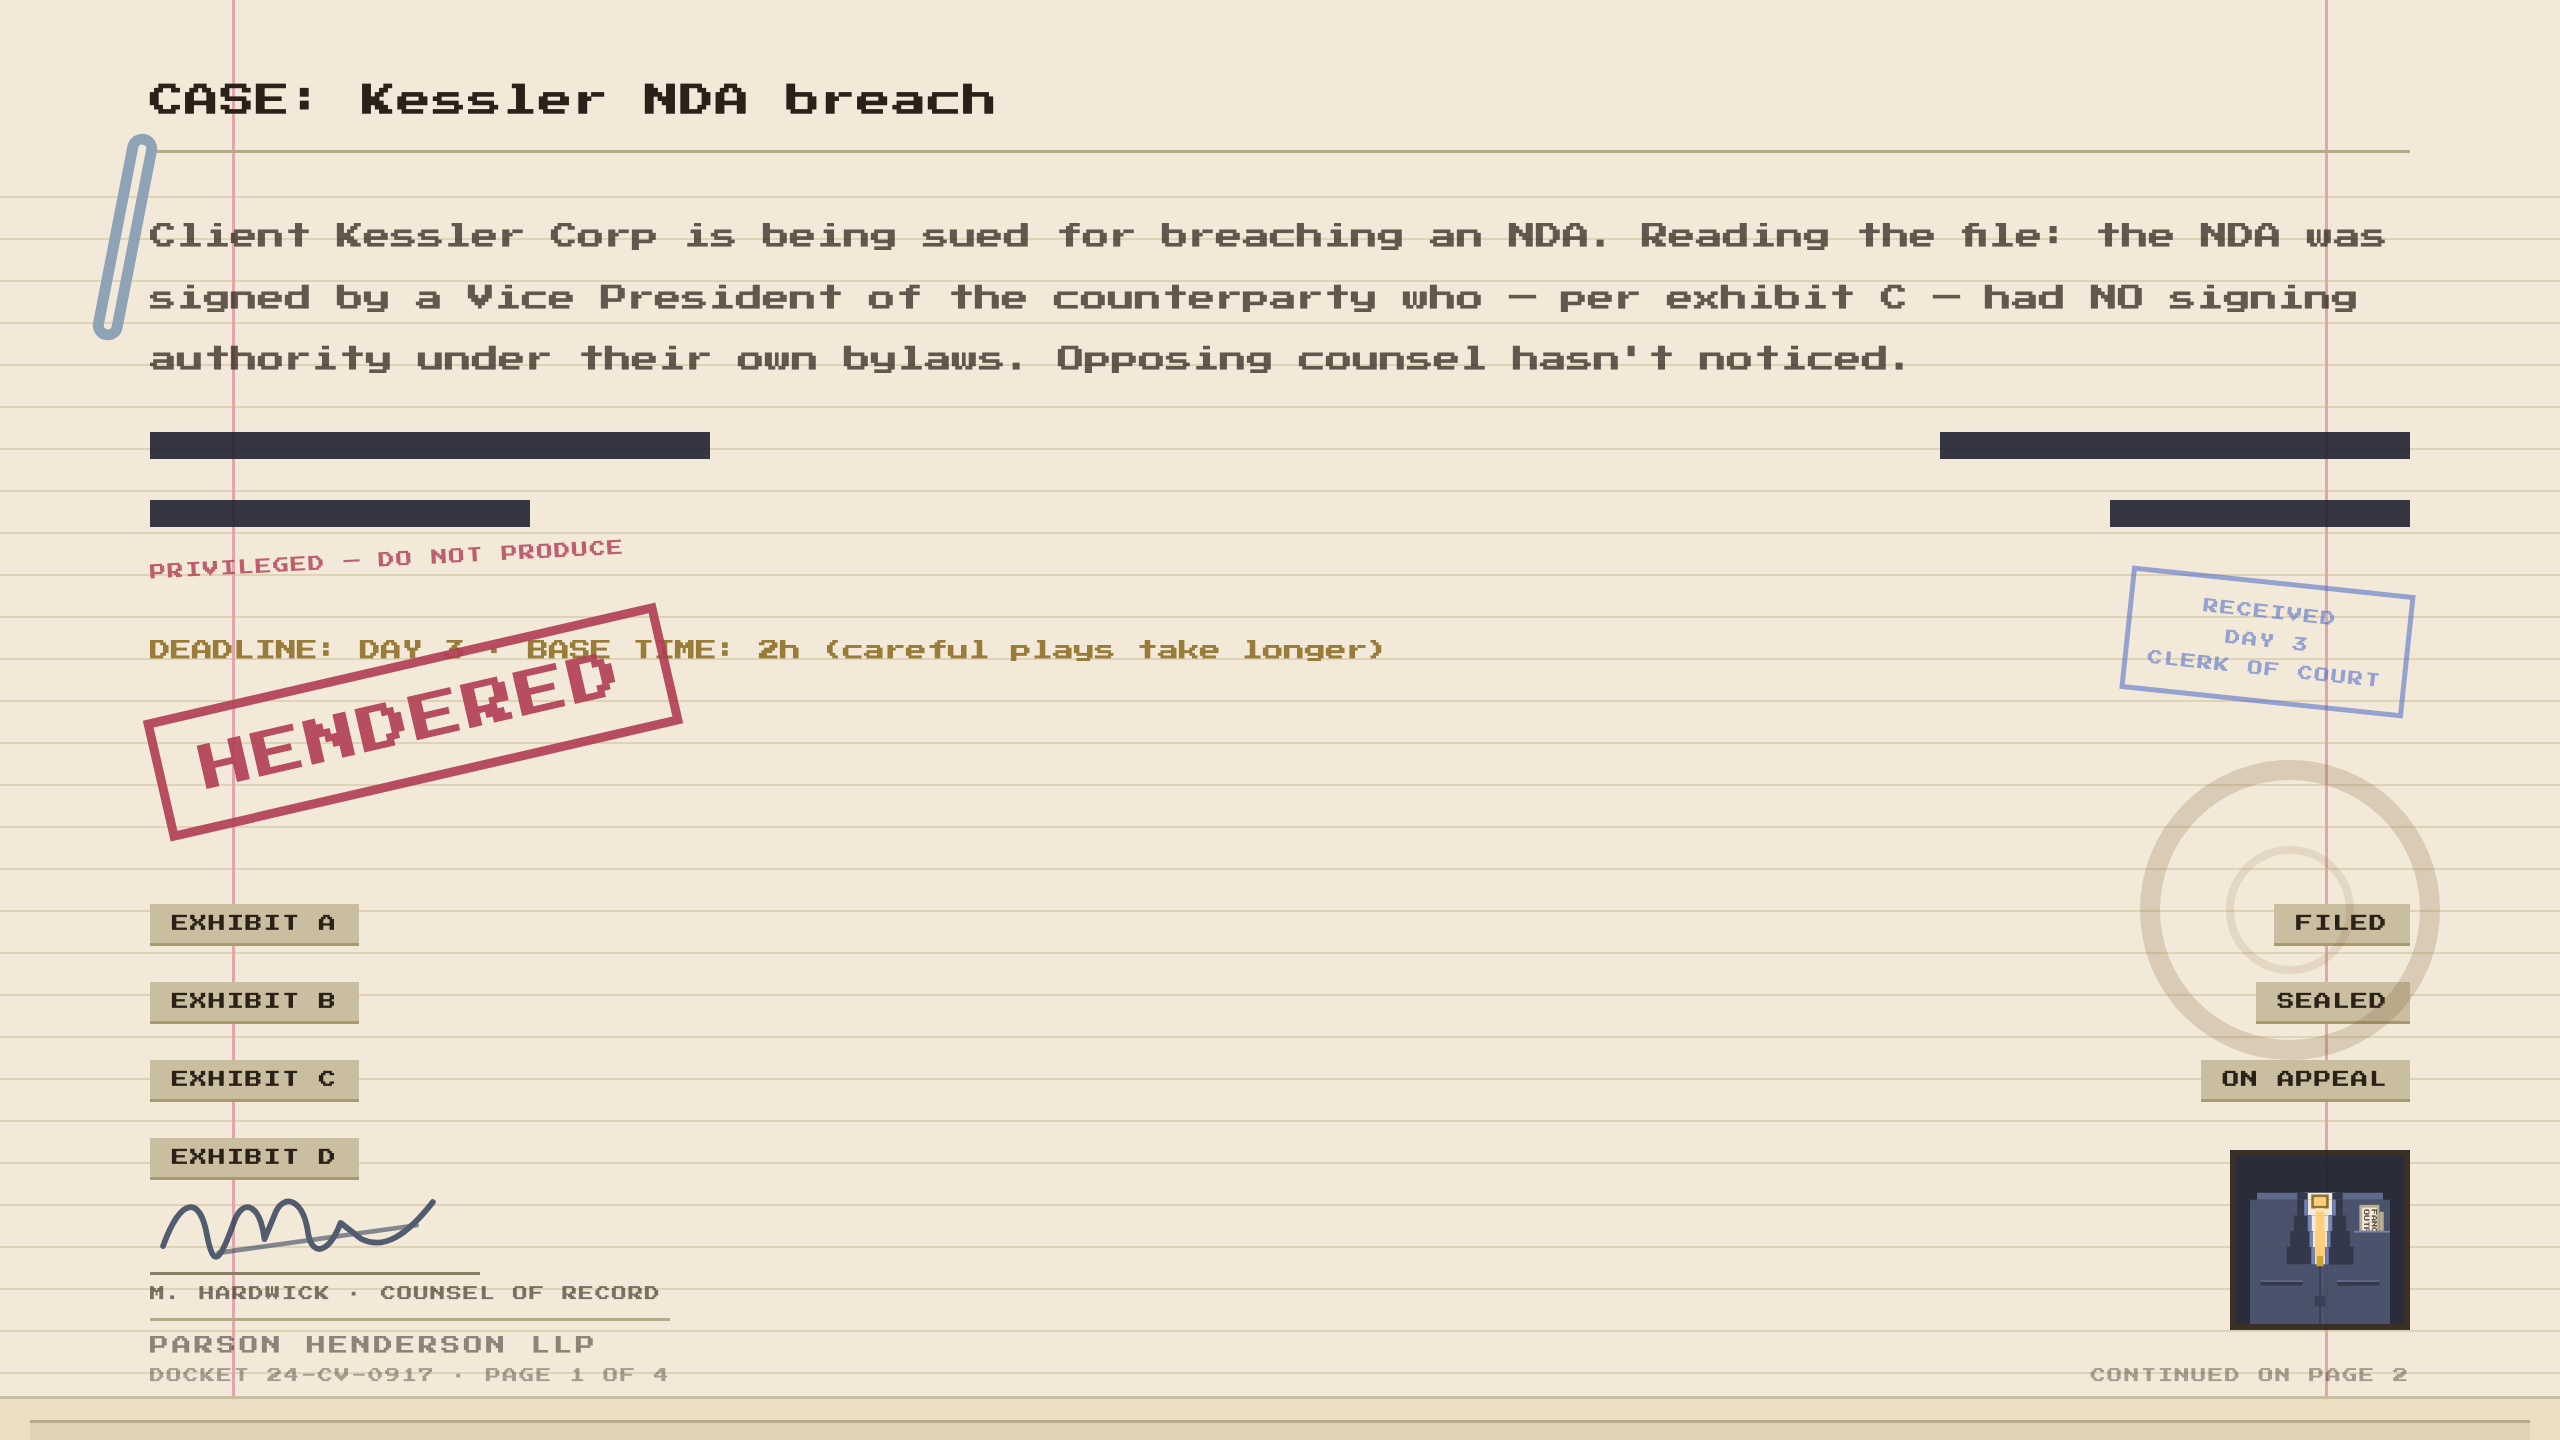
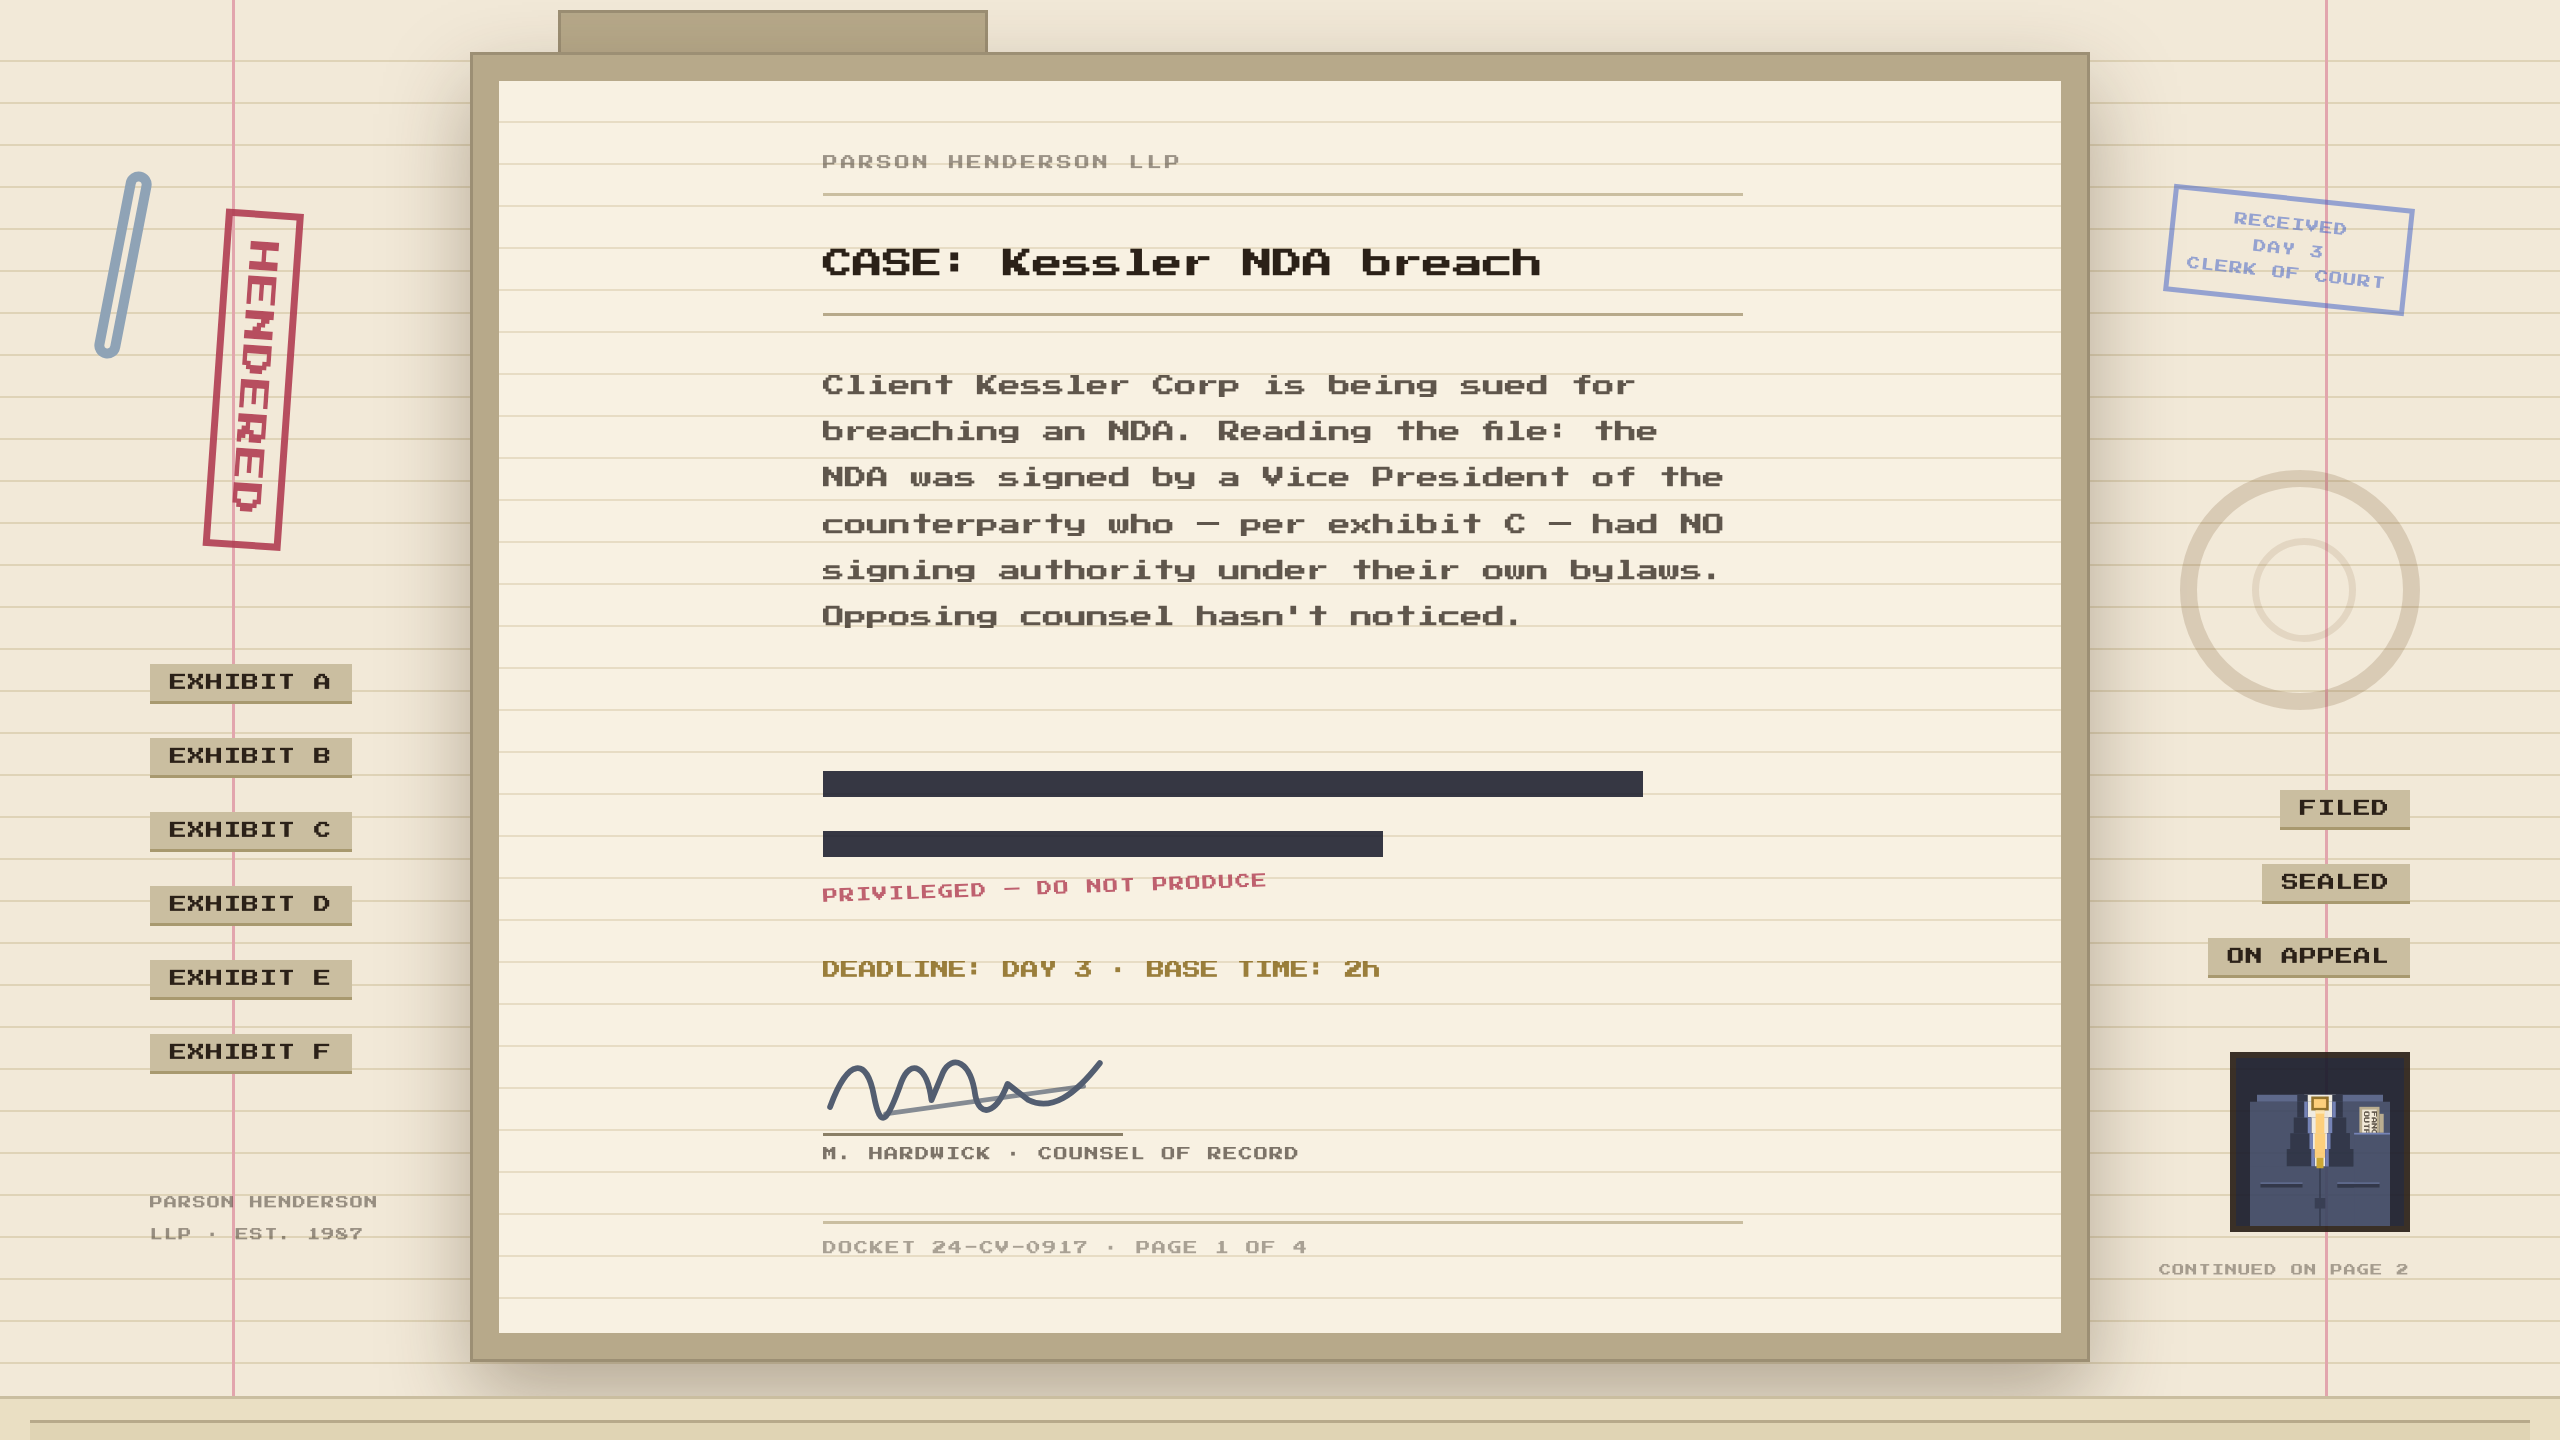
store: rebuild 05 so it is a whole picture, not a bisected one
The first version set the case text full-bleed and trusted the column to hide its
middle. What that actually does is hand the reader the start of every sentence on
the left and the end of it on the right, and no way to finish one. The page read
as fragments because it was fragments.

The rule now: nothing readable may cross the column's edge. The document sits in
a folder in the middle, entirely inside the column's footprint — invisible in the
browser, whole when the image is seen on its own — and each gutter carries only
objects that are complete at 250px, which is all the width a gutter has at 1280.
The stamp stands on end because the gutter is tall and thin, which is also the
shape of the file in the logo.

The constraint is counter-intuitive and I got it wrong once: the column is 960 CSS
px at every window, so against a cover background it is WIDEST on the smallest
screen. Its narrowest is source x 800..1760, at a 2560 viewport, and that is what
the document has to fit inside.

The theme column is opaque now. A few percent of transparency read as a nice tie
between the layers until the folder went in behind it and the document ghosted
through the panel — the very thing this rebuild exists to stop.

diff --git a/assets/store/ITCH.md b/assets/store/ITCH.md
@@ -51,13 +51,26 @@ the still PNG is.
 | File | Loop | Size | What moves |
 | --- | --- | --- | --- |
 | `04-filing-cabinet.gif` | 2.16s, 18 frames | 530 KB | the sheets spilling out of the two open drawers, in a draught |
-| `05-blotter.gif` | 3.04s, 12 frames | 188 KB | the HENDERED stamp lifts and comes down again, once per loop |
+| `05-blotter.gif` | 3.04s, 12 frames | 198 KB | the HENDERED stamp lifts and comes down again, once per loop |
 
 **Why the motion is that small.** itch takes one image for the page background, so an
 animation has to be a GIF, and there file size is the design. A frame that moves all
 over runs to megabytes at 2560x1440; a frame where one region moves stays small,
 because GIF stores only the rectangle that changed. 05 also spends 2.6s of its 3.04s
 loop on a single held frame, which costs nothing.
+
+**05 was rebuilt for this.** The first version set the case text full-bleed, so the
+column cut every sentence in half and the reader was handed line-starts on the left and
+line-ends on the right. The rule now is: *nothing readable may cross the column's edge.*
+The document lives inside a folder in the middle, entirely within the column's footprint
+— invisible in the browser, whole when the image is seen on its own — and each gutter
+carries objects that are complete at 250px wide, which is all the width a gutter has at
+1280. The stamp stands on end because the gutter is tall and thin.
+
+The column's own span is the constraint, and it is counter-intuitive: the column is 960
+CSS px at every window, so against a `cover` background it is **widest on the smallest
+screen**. At a 2560 viewport it covers source x 800..1760, which is the narrowest it
+ever gets, so that span is what the document has to fit inside.
 
 **The pick is 05.** `node scripts/store-itch-theme.mjs` prints the exact theme values
 and renders `_theme.png` — the page as a visitor sees it, background at true viewport
@@ -68,7 +81,7 @@ description sits on top of the case text; itch exposes that as its own field.
 | --- | --- | --- |
 | Background | `#f2e9d8` | the blotter's own paper, so nothing flashes white on load |
 | Background image | `05-blotter.gif`, repeat **cover**, **fixed** on | fixed sizes it to the viewport, so it never moves as the page scrolls |
-| Content background | `rgba(26,28,44,.94)` | the game's own `--bg`; the page is a case file and the column is the game on top of it |
+| Content background | `#1a1c2c` | the game's own `--bg`; the page is a case file and the column is the game on top of it |
 | Text | `#e8dfcb` | |
 | Link | `#ffcd75` | `--gold`, the logo's colour |
 | Border | `#3d4763` | |

diff --git a/DEV_LOGBOOK.md b/DEV_LOGBOOK.md
@@ -45,7 +45,7 @@ küçük kalır.
 | Dosya | Döngü | Boyut | (statik PNG) |
 | --- | --- | --- | --- |
 | `04-filing-cabinet.gif` | 2.16 sn / 18 kare | 530 KB | 166 KB |
-| `05-blotter.gif` | 3.04 sn / 12 kare | 188 KB | 126 KB |
+| `05-blotter.gif` | 3.04 sn / 12 kare | 198 KB | 133 KB |
 
 05 döngüsünün 2.6 saniyesi tek bir tutulan kare — bedava. Kare süreleri **0.04sn
 ızgarasına** oturtuldu: concat demuxer görüntüleri GIF muxer'ına 25fps'te veriyor,
@@ -54,6 +54,27 @@ küçük kalır.
 
 Komutlar: `node scripts/store-backgrounds.mjs` (statikler), `--animate` (GIF'ler).
 Detay ve itch alan ayarları `assets/store/ITCH.md` › *Page background*.
+
+### 05 yeniden tasarlandı: tam ekran bir kompozisyon
+
+Kullanıcı "yarım yarım olmuş" dedi ve haklıydı — tasarımın kendisi kırıktı. İlk sürüm
+dava metnini tam genişlik koyuyordu, sütun her cümlenin ortasını kapattığı için okur
+solda satır başlarını sağda satır sonlarını alıyor, hiçbirini bitiremiyordu.
+
+**Yeni kural: OKUNMASI GEREKEN HİÇBİR ŞEY SÜTUNUN KENARINI KESMEZ.** Belge ortada bir
+dosya klasörünün içinde ve tamamen sütunun ayak izinin içinde — tarayıcıda görünmez,
+görsel tek başına bakıldığında bütün. İki oluk da yalnız 250px'te tamamlanan nesneler
+taşıyor. Damga dik duruyor, çünkü oluk uzun ve dar; logonun kendi 90° döndürülmüş
+dosyasıyla da aynı dili konuşuyor.
+
+Kısıt sütunun genişliği ve sezgiye aykırı: sütun her pencerede 960 CSS px, yani `cover`
+arkaplana karşı **en küçük ekranda en geniş**. 2560'lık pencerede kaynakta 800..1760'ı
+kapatıyor, bu en dar hali, belge de buna sığmak zorunda. (Bir önceki denemede bunu
+1040..2000 sanıp belgeyi sağa kaydırmıştım.)
+
+Tema sütunu da **opak** oldu. %6 saydamlık iki katmanı birbirine bağlıyor sanıyordum;
+klasör arkaya girince belge panelin içinden hayalet gibi geçti ve tam da kaçınılmak
+istenen yarı-okunur metni geri getirdi.
 
 ### Blotter seçildi, sayfası dolduruldu
 
